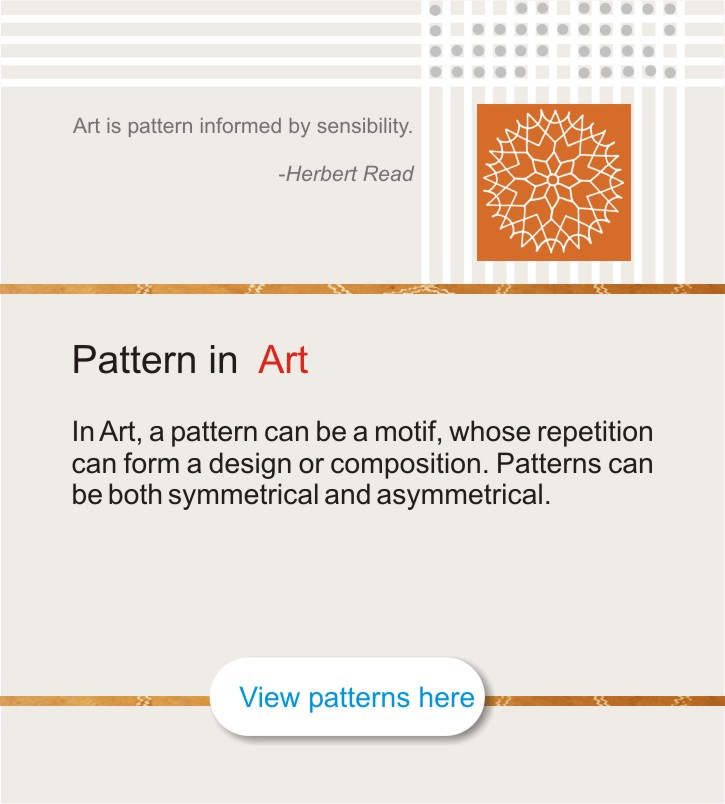
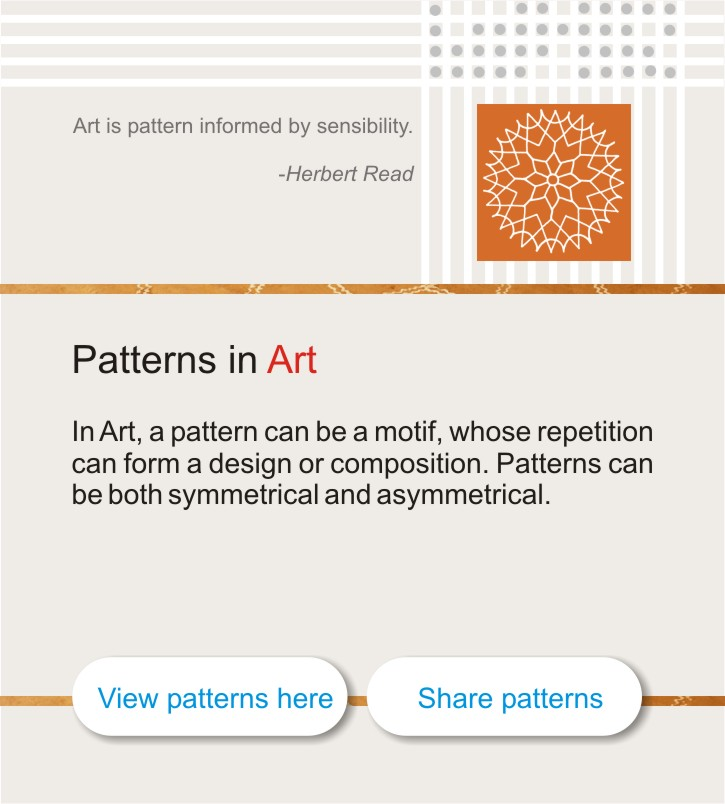
changes in Event Pages

Changed region(s): [[0.091, 0.8085, 0.9103, 0.9328], [0.2731, 0.4042, 0.4552, 0.4664]]

diff --git a/gstudio/templates/gstudio/discoverpatterns.html b/gstudio/templates/gstudio/discoverpatterns.html
@@ -4,7 +4,12 @@
 {% block content %}
 
 
-<div id="constitution_event" style="position:relative;"><img src="/static/gstudio/img/discoverpatterns.jpg">
+<div id="joindots_event" style="position:relative;"><img src="/static/gstudio/img/discoverpatterns.jpg">
+<a style="position:absolute;top:1007px;left:18px;height:127px;width:127px;display:block;border-radius: 50%/50%;" alt="Patterns in Nature" title="Patterns in Nature" href="/NaturePatterns"></a>
+<a style="position:absolute;top:1007px;left:159px;height:127px;width:127px;display:block;border-radius: 50%/50%;" alt="Patterns in Art" title="Patterns in Art" href="/ArtPatterns"></a>
+<a style="position:absolute;top:1007px;left:300px;height:127px;width:127px;display:block;border-radius: 50%/50%;" alt="Tangram" title="Tangram" href="/Tangram"></a>
+<a style="position:absolute;top:1007px;left:441px;height:127px;width:126px;display:block;border-radius: 50%/50%;"  alt="Turtle Art" title="Turtle Art" href="/TurtleArt"></a>
+<a style="position:absolute;top:1007px;left:583px;height:127px;width:126px;display:block;border-radius: 50%/50%;" alt="Share Creativity" title="Share Creativity" href="/ShareCreativity"></a>
 
 </div>
 

diff --git a/gstudio/templates/gstudio/turtlepatterns.html b/gstudio/templates/gstudio/turtlepatterns.html
@@ -5,11 +5,20 @@
 
 
 <div id="joindots_event" style="position:relative;"><img src="/static/gstudio/img/turtlepatterns.jpg">
-<a style="height: 80px;
-    left: 200px;
+<a style="border-radius: 50px;
+    display: block;
+    height: 80px;
+    left: 48px;
     position: absolute;
-    top: 835px;
-    width: 310px;display:block;border-radius:50px;" alt="Click here for Turtle Art" title="Click here for Turtle Art" href="http://llk.media.mit.edu/courses/software/turtleart/" target="_blank"></a>
+    top: 862px;
+    width: 310px;" alt="Click here for Turtle Art" title="Click here for Turtle Art" href="http://llk.media.mit.edu/courses/software/turtleart/" target="_blank"></a>
+<a style="border-radius: 50px;
+    display: block;
+    height: 80px;
+    left: 400px;
+    position: absolute;
+    top: 865px;
+    width: 275px" alt="Share your creativity" title="Share your creativity" href="http://nroer.gov.in/ContributeResourceForm/"></a>
 </div>
 
 {% endblock %}

diff --git a/gstudio/templates/gstudio/naturepatterns.html b/gstudio/templates/gstudio/naturepatterns.html
@@ -5,11 +5,20 @@
 
 
 <div id="joindots_event" style="position:relative;"><img src="/static/gstudio/img/naturepatterns.jpg">
-<a style="height: 80px;
-    left: 222px;
+<a style="border-radius: 50px;
+    display: block;
+    height: 80px;
+    left: 72px;
     position: absolute;
-    top: 645px;
-    width: 278px;display:block;border-radius:50px;" alt="View Patterns here" title="View patterns here" href="/static/gstudio/img/Patterns_in_Nature.pdf"></a>
+    top: 648px;
+    width: 275px;" alt="View Patterns here" title="View patterns here" href="/static/gstudio/img/Patterns_in_Nature.pdf"></a>
+<a style="border-radius: 50px;
+    display: block;
+    height: 80px;
+    left: 366px;
+    position: absolute;
+    top: 648px;
+    width: 275px;" alt="Share Patterns" title="Share Patterns" href="http://nroer.gov.in/ContributeResourceForm/"></a>
 </div>
 
 {% endblock %}

diff --git a/gstudio/templates/gstudio/artpatterns.html b/gstudio/templates/gstudio/artpatterns.html
@@ -6,10 +6,15 @@
 
 <div id="joindots_event" style="position:relative;"><img src="/static/gstudio/img/artpatterns.jpg">
 <a style="height: 82px;
-    left: 210px;
+    left: 72px;
     position: absolute;
     top: 655px;
     width: 275px;display:block;border-radius:50px;" alt="View Patterns here" title="View patterns here" href="http://nroer.gov.in/gstudio/resources/images/show/45326/"></a>
+<a style="height: 82px;
+    left: 366px;
+    position: absolute;
+    top: 655px;
+    width: 275px;display:block;border-radius:50px;" alt="Share Patterns" title="Share Patterns" href="http://nroer.gov.in/ContributeResourceForm/"></a>
 </div>
 
 {% endblock %}

diff --git a/gstudio/templates/gstudio/sharecreativity.html b/gstudio/templates/gstudio/sharecreativity.html
@@ -5,12 +5,13 @@
 
 
 <div id="joindots_event" style="position:relative;"><img src="/static/gstudio/img/sharecreativity.jpg">
-<a style="height: 82px;
-    left: 222px;
+<a style="border-radius: 50px;
+    display: block;
+    height: 80px;
+    left: 225px;
     position: absolute;
-    top: 834px;
-    width: 279px;
-display:block;border-radius:50px;" alt="Contribute" title="Contribute" href="http://nroer.gov.in/ContributeResourceForm/"></a>
+    top: 836px;
+    width: 276px;" alt="Contribute" title="Contribute" href="http://nroer.gov.in/ContributeResourceForm/"></a>
 </div>
 
 {% endblock %}

diff --git a/gstudio/templates/gstudio/tangram.html b/gstudio/templates/gstudio/tangram.html
@@ -5,7 +5,13 @@
 
 
 <div id="joindots_event" style="position:relative;"><img src="/static/gstudio/img/tangram.jpg">
-<a style="height: 84px;left: 204px;position: absolute;top: 2196px;width: 315px;display:block;border-radius:50px;" alt="Share your Tangram" title="Share your Tangram" href="http://nroer.gov.in/ContributeResourceForm/"></a>
+<a style="border-radius: 50px;
+    display: block;
+    height: 80px;
+    left: 206px;
+    position: absolute;
+    top: 2198px;
+    width: 312px;" title="Share your Tangram" href="http://nroer.gov.in/ContributeResourceForm/"></a>
 </div>
 
 {% endblock %}

diff --git a/gstudio/templates/gstudio/fullscreen.html b/gstudio/templates/gstudio/fullscreen.html
@@ -153,9 +153,6 @@ $(document).ready(function(){
 
 <link rel="shortcut icon" href="{{ STATIC_URL }}gstudio/img/favicon.ico" />
 <h1><font id="fonttitleid" ><b>{{image.title}}</b></font></h1>
-
-
-
 {% if request.user.is_superuser %}
 {% edit_title image.id image.title %}
 {% public_private image.id image.status %}
